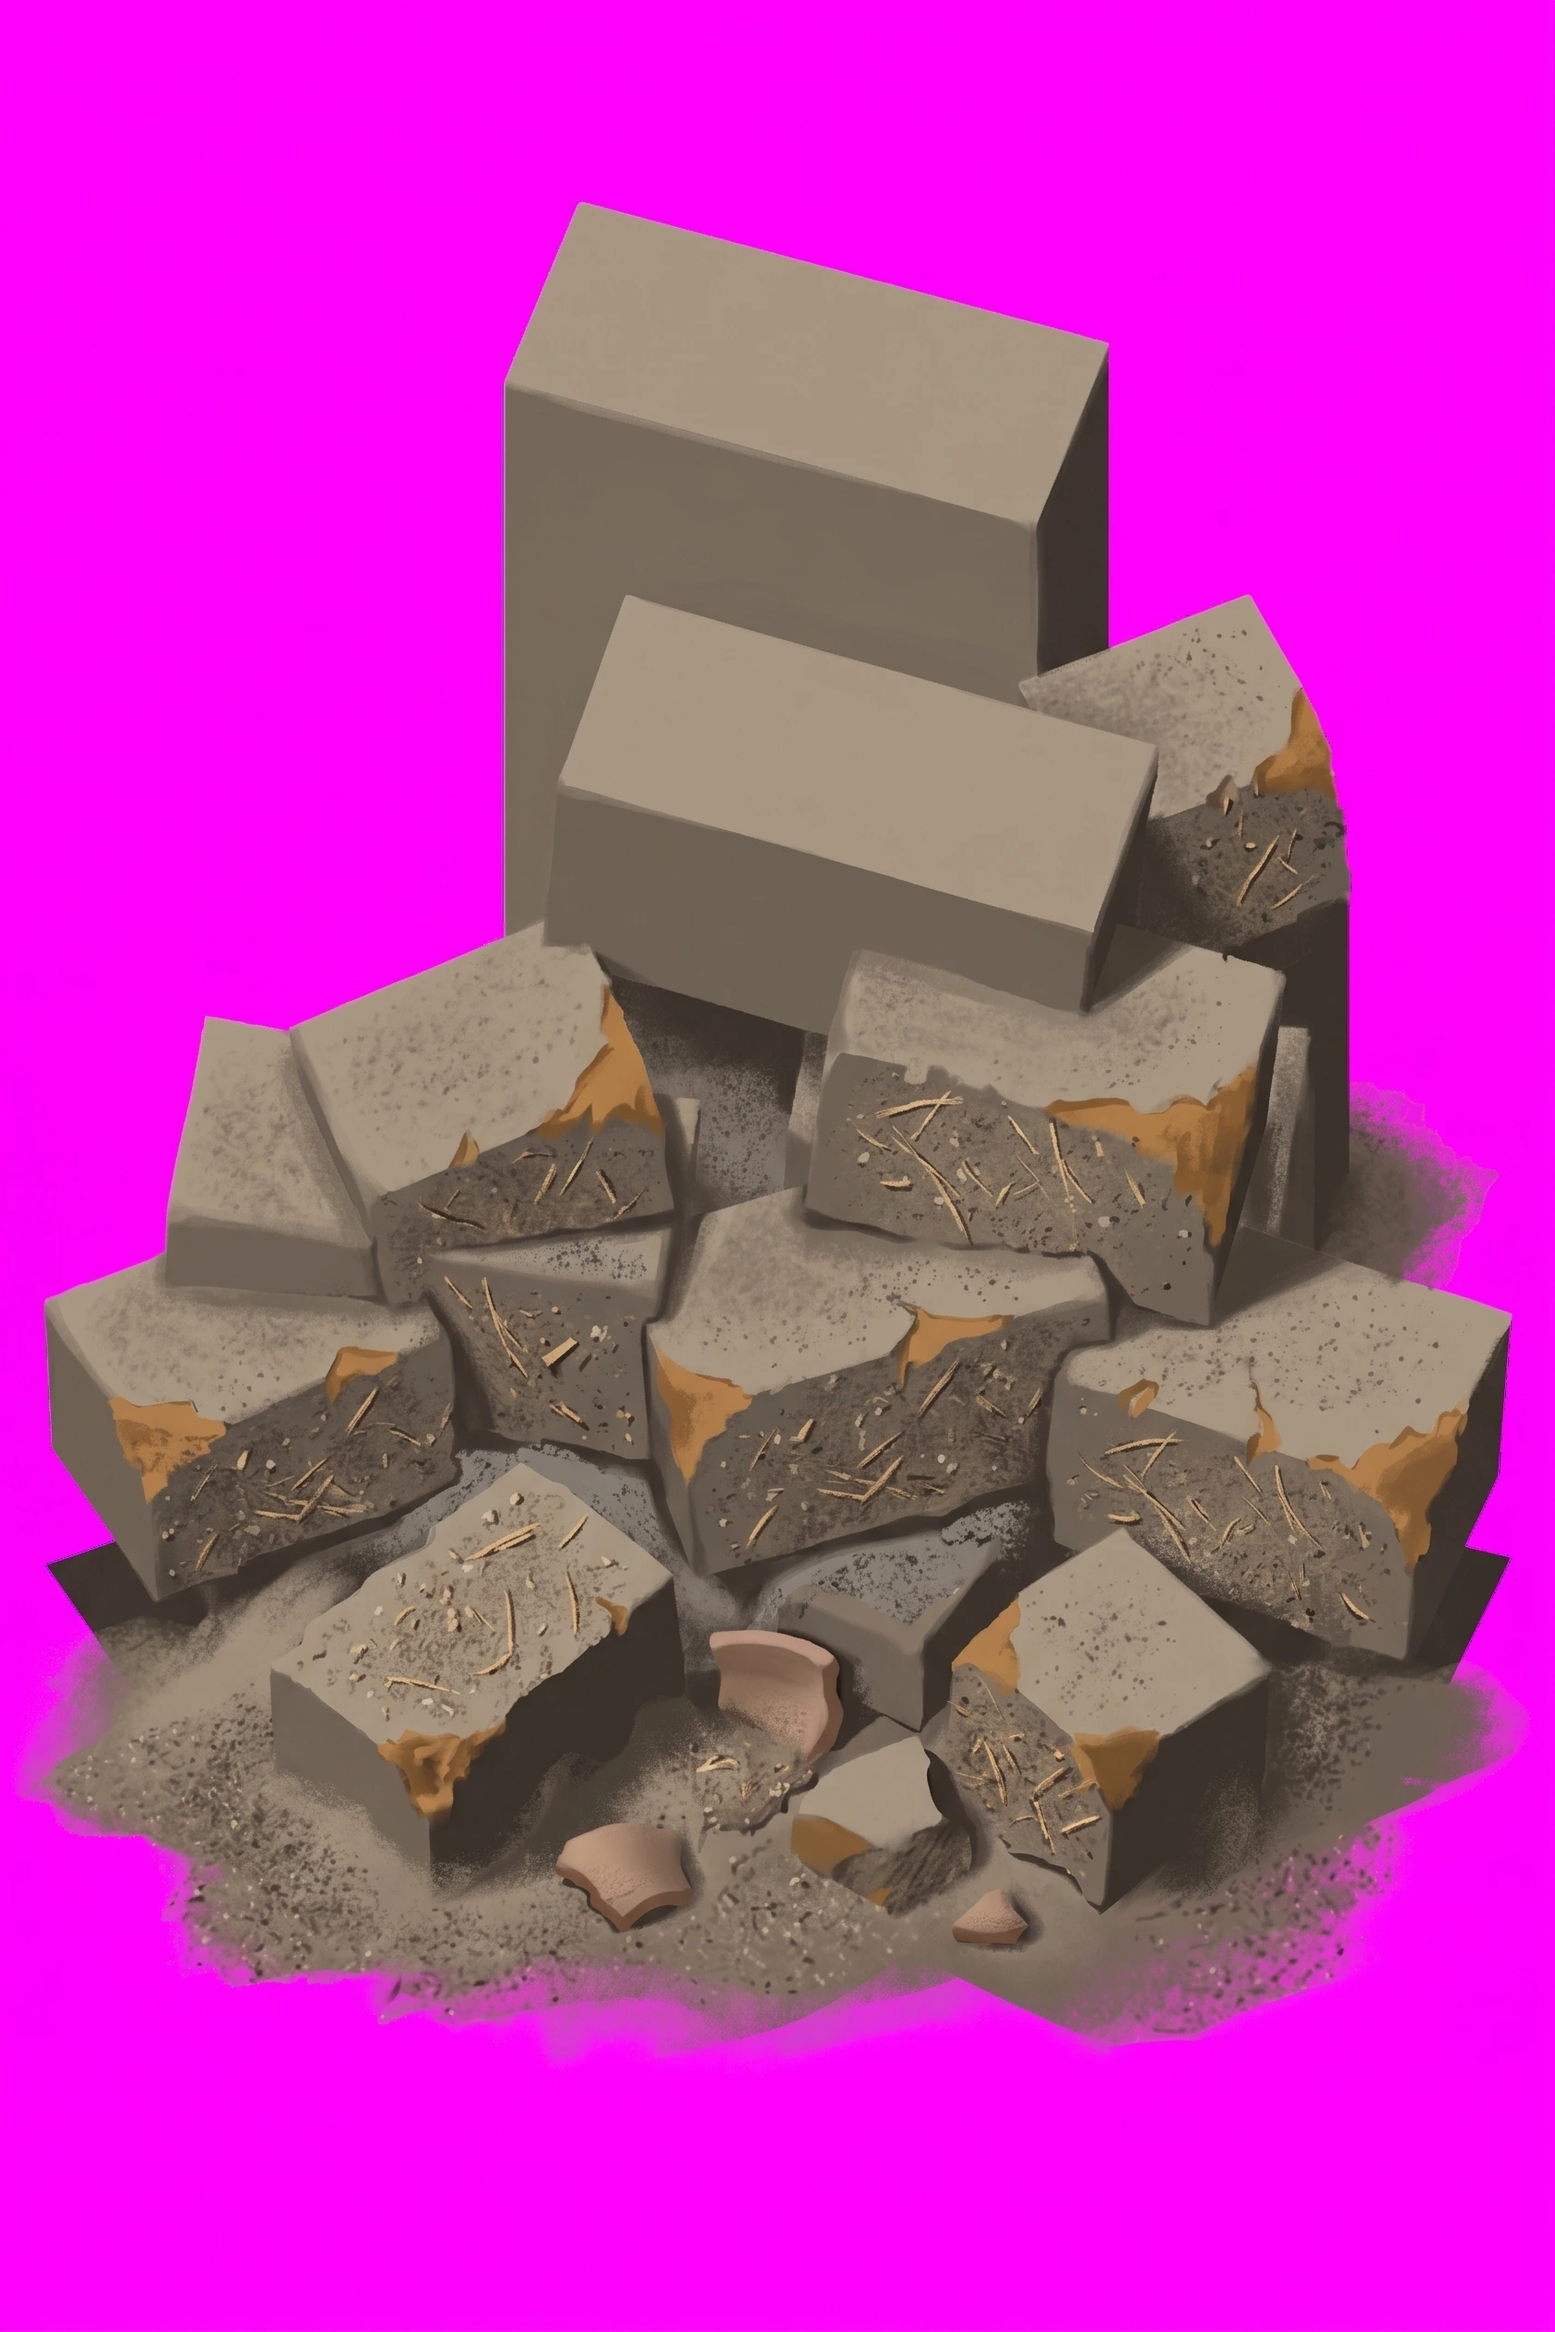
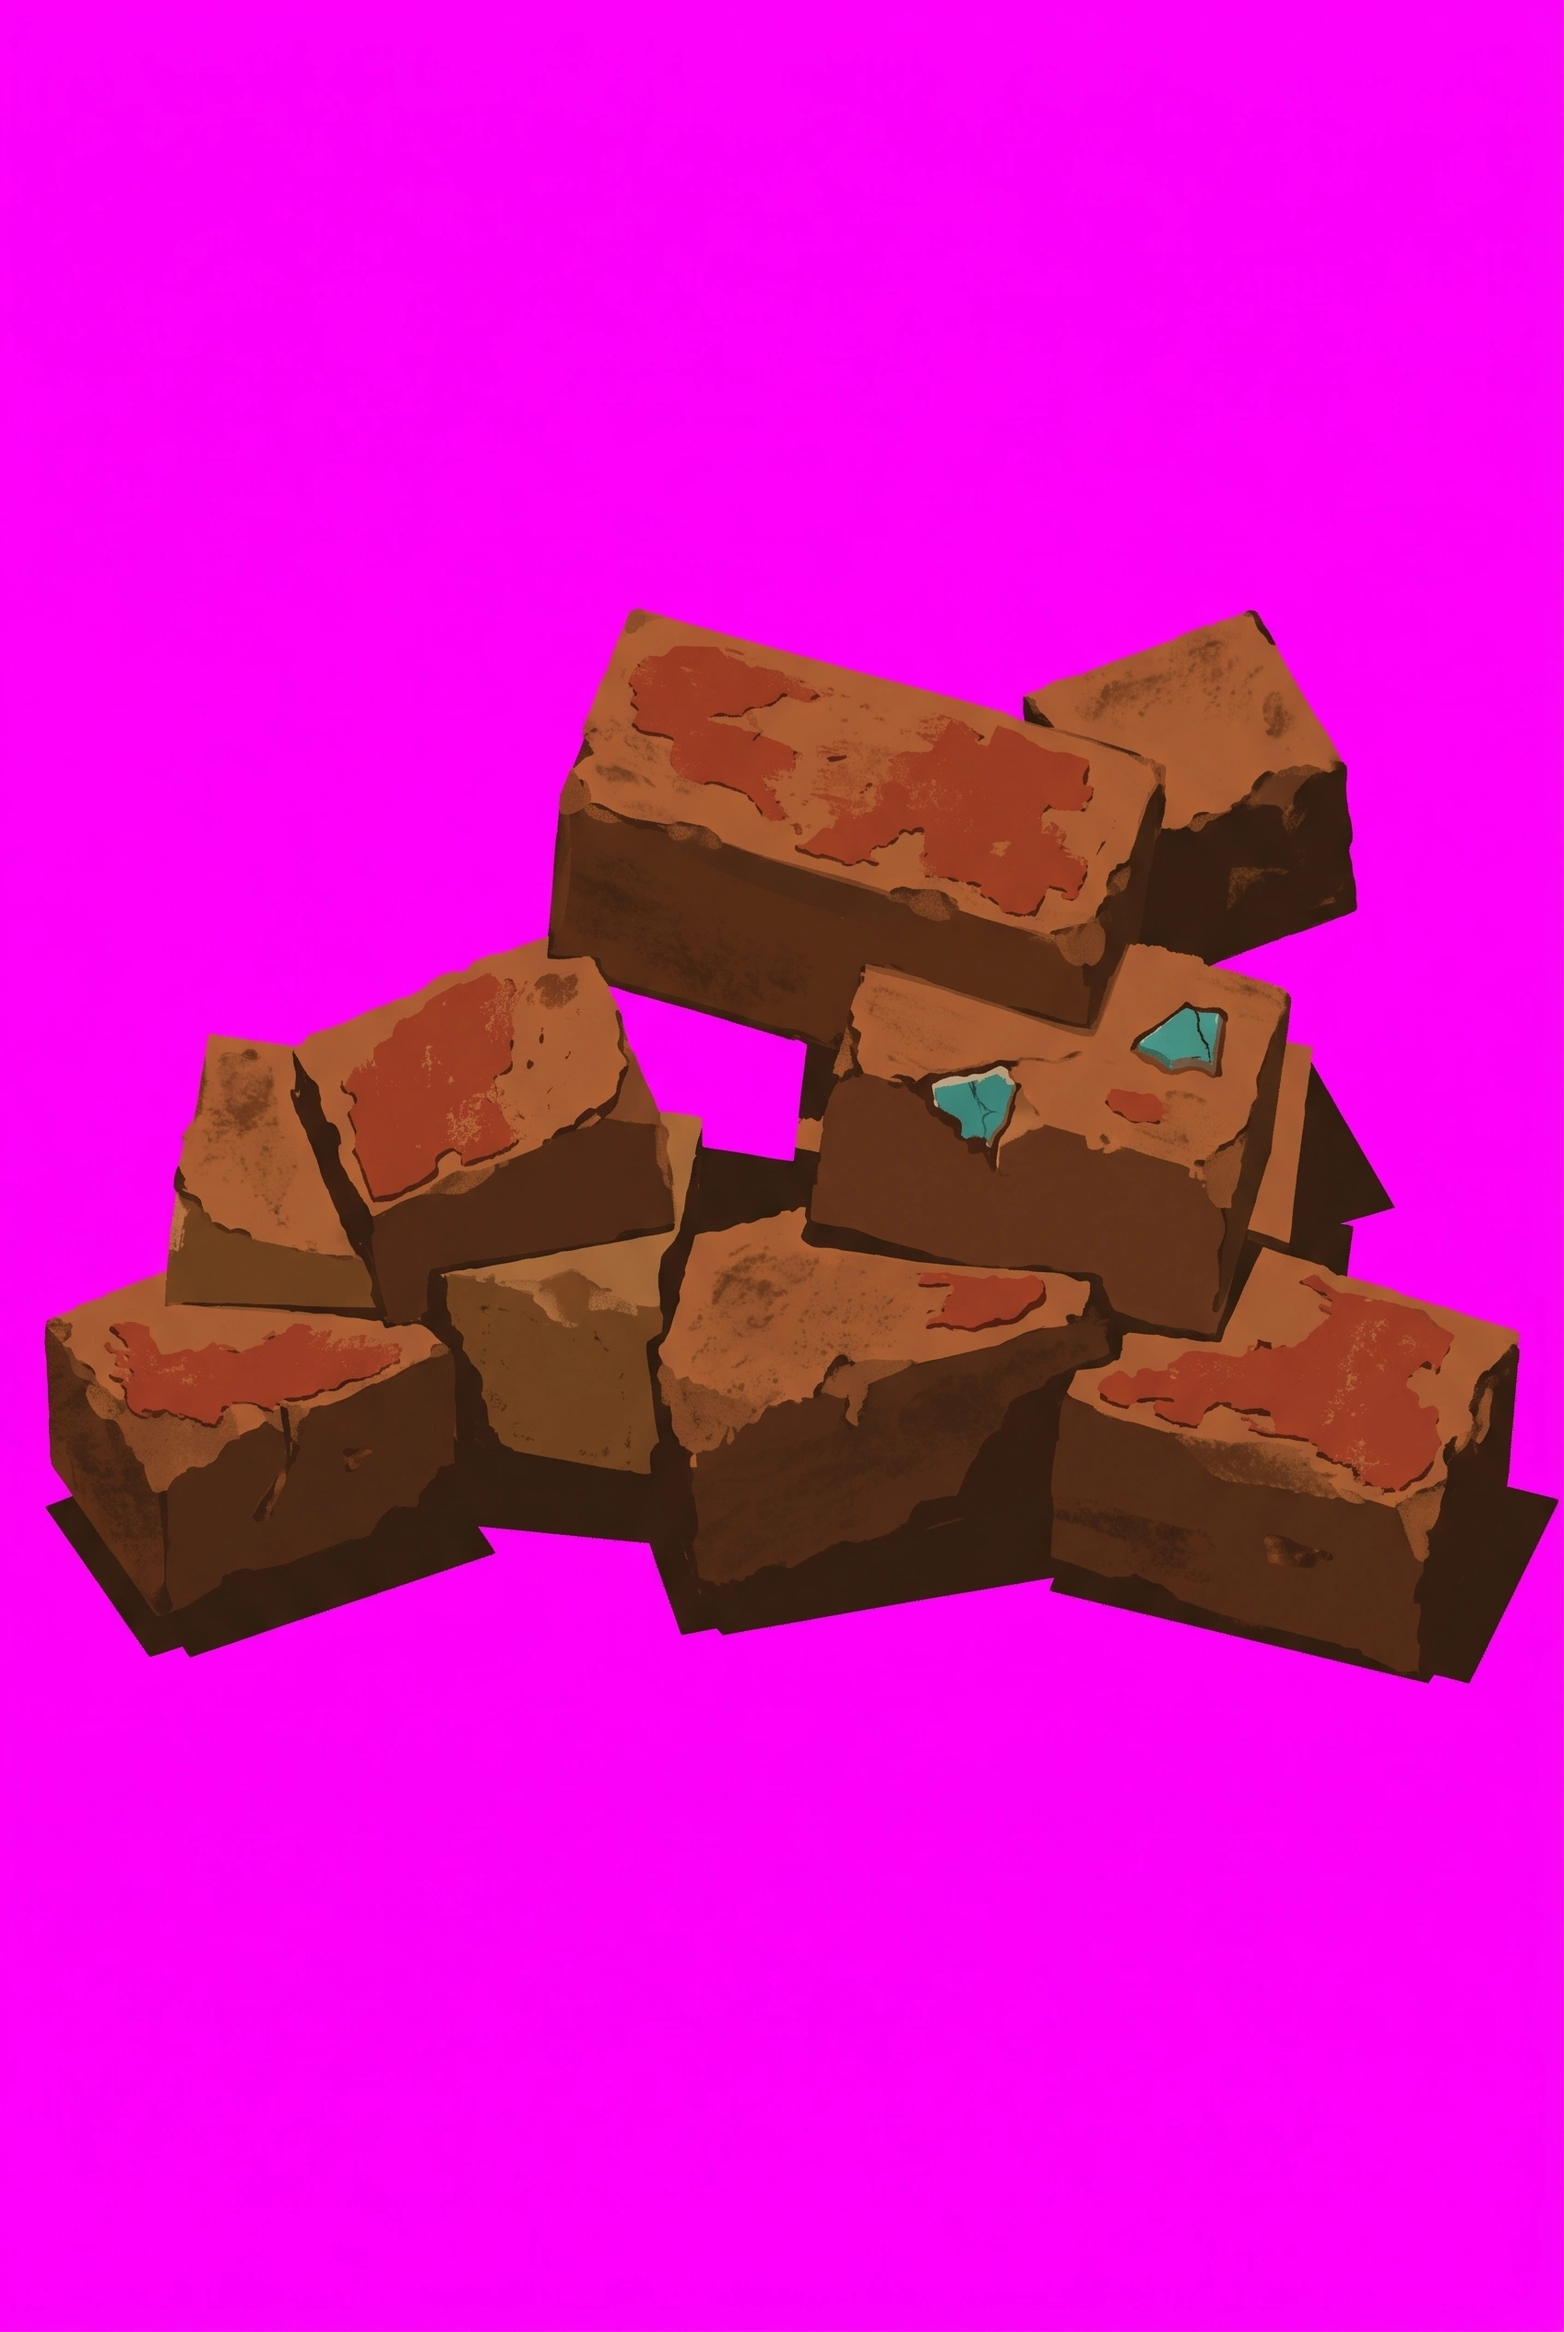
feat: starter's rubble repainted, broken mudbrick with red ochre and faience
Claude-Session: https://claude.ai/code/session_01NQk9Q1WZoZfDzoRioyXby1

diff --git a/docs/instructions/repaint-queue.md b/docs/instructions/repaint-queue.md
@@ -193,45 +193,6 @@ the shabti is `--mesh=art/masters/meshes/shabti.glb`. `starter-plain.png` is the
 `art/masters/surfaces/starter-floor.webp` scaled to 1024, the crop every `<tier>-plain.png` is. The
 tally board has no scaffold: it attaches its own master.
 
-### `starter/rubblePile` — broken mudbrick, one brick still red
-
-**Attach:**
-
-1. `~/tile-previews/rubbleheap-starter.png` — the scaffold
-2. `~/tile-previews/starter-plain.png` — the material reference
-
-```
-A wall-less product shot of a single object, painted in flat matte gouache, no background, on pure magenta #FF00FF. Portrait, two units wide by three tall, exactly as the reference. Do not re-compose it into a square. Paint over the reference image itself.
-
-The object: a knee-high HEAP of broken MUDBRICK, the blocks tumbled on each other at different angles,
-one brick still whole.
-
-The brick is dark sun-dried mud, #7e3a1a to #5e3a1e, its broken faces a shade lighter #9a6a3c and never
-pale. Patches of the RED OCHRE #b8452c plaster that once covered it still cling to several faces. The
-gaps between the blocks and the faces nearest the floor are deep umber #3a2a1c. One fragment carries a
-chip of turquoise #2a9d8f faience tile.
-
-IT STANDS ON A PALE FLOOR AND MUST READ DARK ON IT. The floor is pale limestone, #d8c8a8. The object as a
-whole is clearly DARKER and more colourful than that: nothing on it larger than a fingertip is lighter
-than terracotta #c0612f, and only the turquoise #2a9d8f may be, in small touches. Its base, its underside
-and every part nearest the floor are its darkest, deep umber #3a2a1c. Nothing on it is white, cream,
-bleached, pale straw or whitewash — a pale part vanishes into the floor.
-
-Keep every edge, every proportion and every silhouette exactly as in the reference image — do not move, resize, straighten, add, remove or restyle any part of it, and do not change the angle it stands at. Paint only material and wear.
-
-The shadow at its foot is part of the picture: paint it #3A2A1C, with no pink and no purple in it at all.
-
-No highlights, no gloss, no rim light, no ground plane, no reflections. Matte throughout, as if lit by one dull lamp. Merchant's storehouse: fired terracotta #c0612f and #7e3a1a, honey-brown timber #9a6a3c and #5e3a1e, red ochre paint #b8452c, turquoise faience #2a9d8f. Saturated and warm — colour that reads from across the room — and never as pale as the floor it stands on.
-```
-
-Then, once the return is in `~/Downloads`:
-
-```sh
-scaffold rubblePile
-yarn import-tile art/masters/props/starter/rubblePile.webp --tier=starter --name=rubblePile --slot=prop \
-  --filter=smooth --mask="$OBJ" --seat="$SHADOW"
-```
-
 ### `starter/mat` — a dyed palm-fibre mat with ochre bands
 
 **Attach:**
